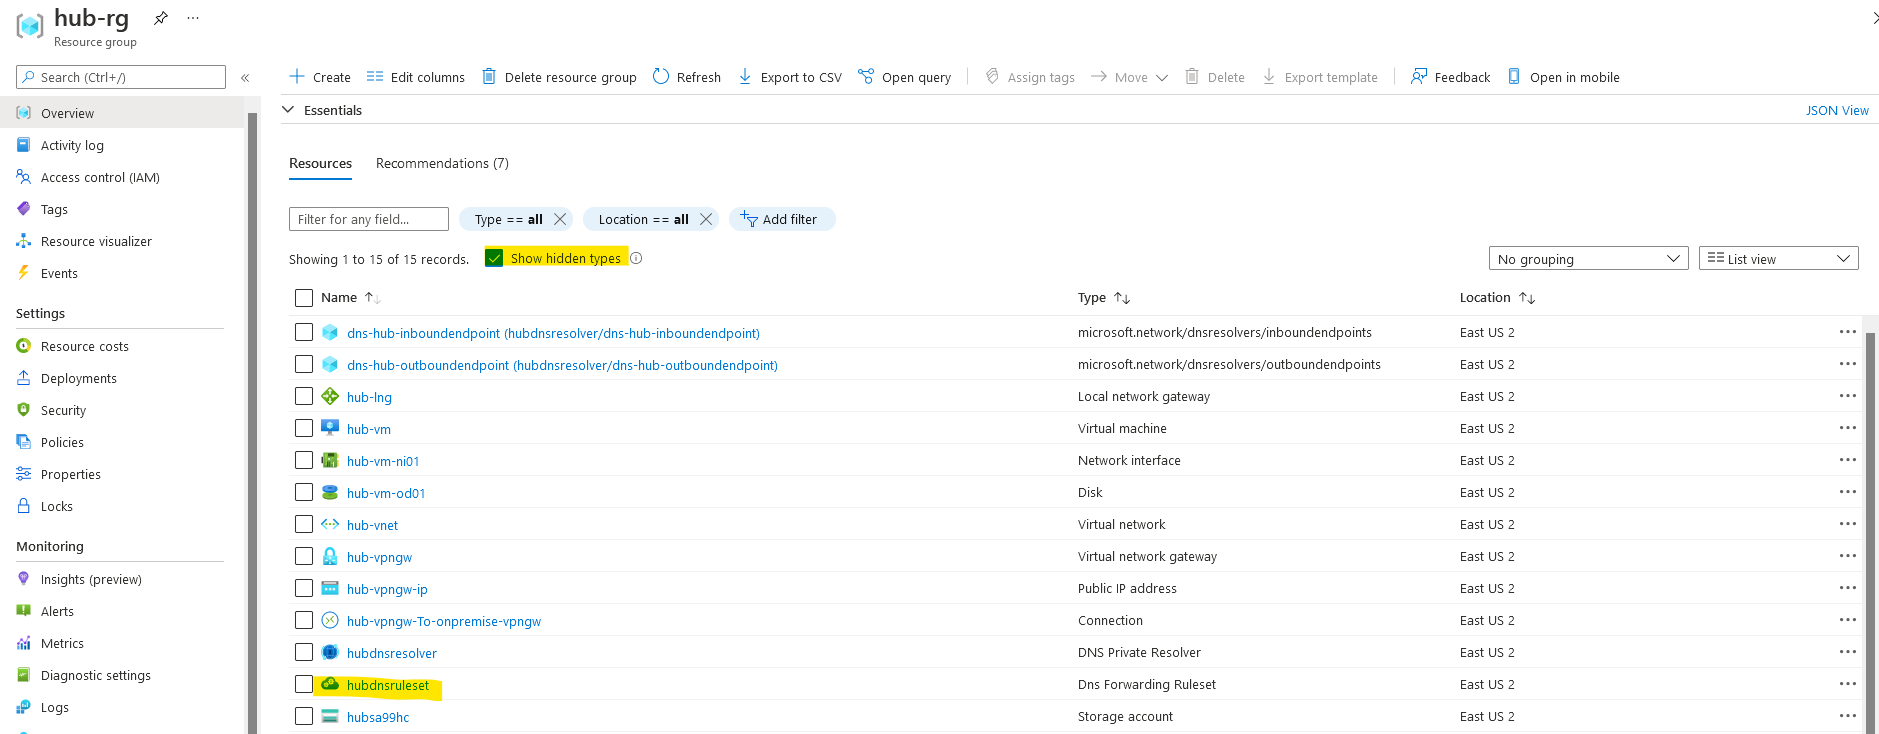
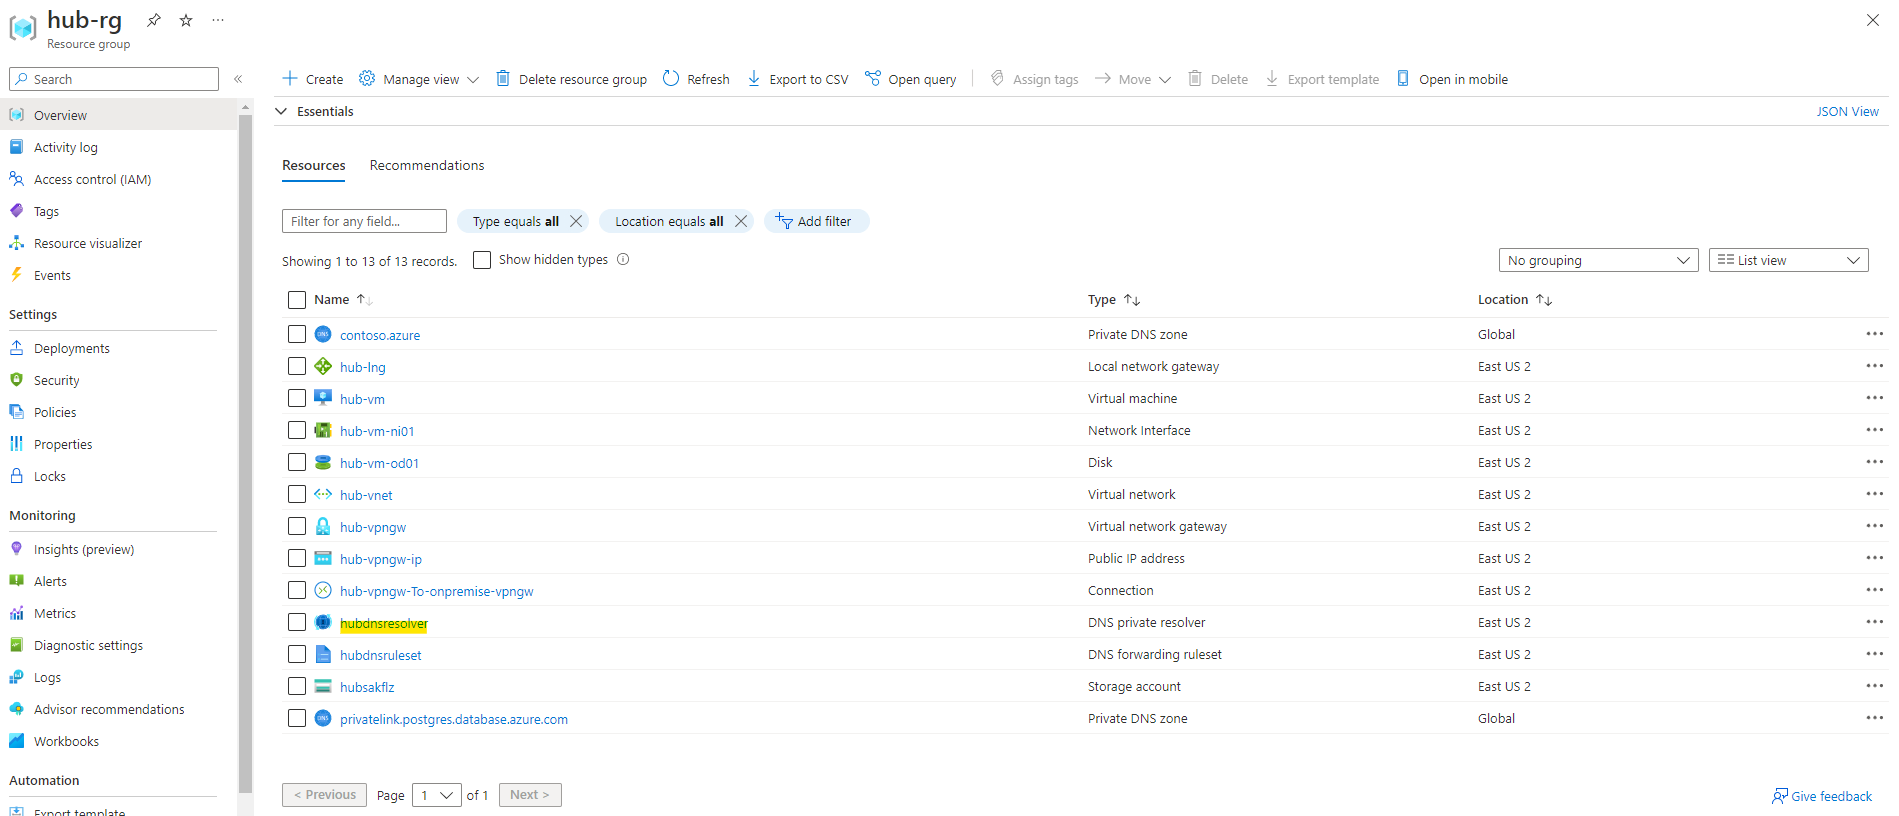
microhack updated - terraform support added

diff --git a/README.md b/README.md
@@ -70,29 +70,15 @@ To start the Terraform deployment, follow the steps listed below:
 
   > You may encounter an **error during the first deployment**. If this is the case, re-execute the `terraform apply`.
 
-## Task 2: Deploy Azure DNS Private Resolver
-
-Azure DNS Private Resolver cannot be deployed using Terraform currently as the service is in Public Preview. To deploy this service, we will use a Powershell script:
-
-- Go to the  folder "azure-dns-private-resolver-microhack/scripts" and execute `privatednsresolvers.ps1` script:
-
-`cd azure-dns-private-resolver-microhack/scripts`
-
-`./privatednsresolvers.ps1`
-
-- When prompted, specify the Azure Subscription Id.
-
-  > You may encounter the error "*New-AzDnsResolver_CreateExpanded: The resource type could not be found in the namespace 'Microsoft.Network' for api version '2020-04-01-preview'.*". It means that the subscription ID is not yet enabled with Azure DNS Private Resolver. Check [Prerequistes](#prerequisites) again. 
-
-## Task 3: Explore and verify the deployed resources
+## Task 2: Explore and verify the deployed resources
 
 - Verify you can access via Serial Console:
   - onpremise-vm in onpremise-rg 
   - hub-vm in hub-vnet in hub-rg 
   - spoke01-vm in spoke01-rg
 
-- Verify you can see hubdnsresolver and hubdnsruleset in hub-rg (**check** the *Show hidden types* checkbox)
-- Verify you can see onpremisednsresolver and onpremisednsruleset in onpremise-rg (**check** the *Show hidden types* checkbox)
+- Verify you can see hubdnsresolver and hubdnsruleset in hub-rg
+- Verify you can see onpremisednsresolver and onpremisednsruleset in onpremise-rg 
 - Verify the S2S VPN connections are connected
 
 ## :checkered_flag: Results
@@ -130,7 +116,7 @@ Let's configure DNS Forwarding Ruleset for both Hub and Onpremise to unlock thes
 
 ## Task 1: Configure Hub DNS Forwarding Ruleset for *contoso.internal* domain
 
-1. In hub-rg, check "Show hidden types" and open Dns Forwarding Ruleset
+1. In hub-rg, open Dns Forwarding Ruleset
 
 ![image](images/dnsforwardingruleset-hubcfg01.png)
 
@@ -151,7 +137,7 @@ Let's configure DNS Forwarding Ruleset for both Hub and Onpremise to unlock thes
 
 ## Task 2: Configure Onpremise DNS Forwarding Ruleset for postgresql domain
 
-1. In onpremise-rg, check "Show hidden types" and open Dns Forwarding Ruleset
+1. In onpremise-rg, open Dns Forwarding Ruleset
 ![image](images/dnsforwardingruleset-onpremisecfg01.png)
 
 2. Add Forwarding Rule for *privatelink.postgres.database.azure.com.* domain to Azure DNS inbound IP address: `10.221.2.4:53`
